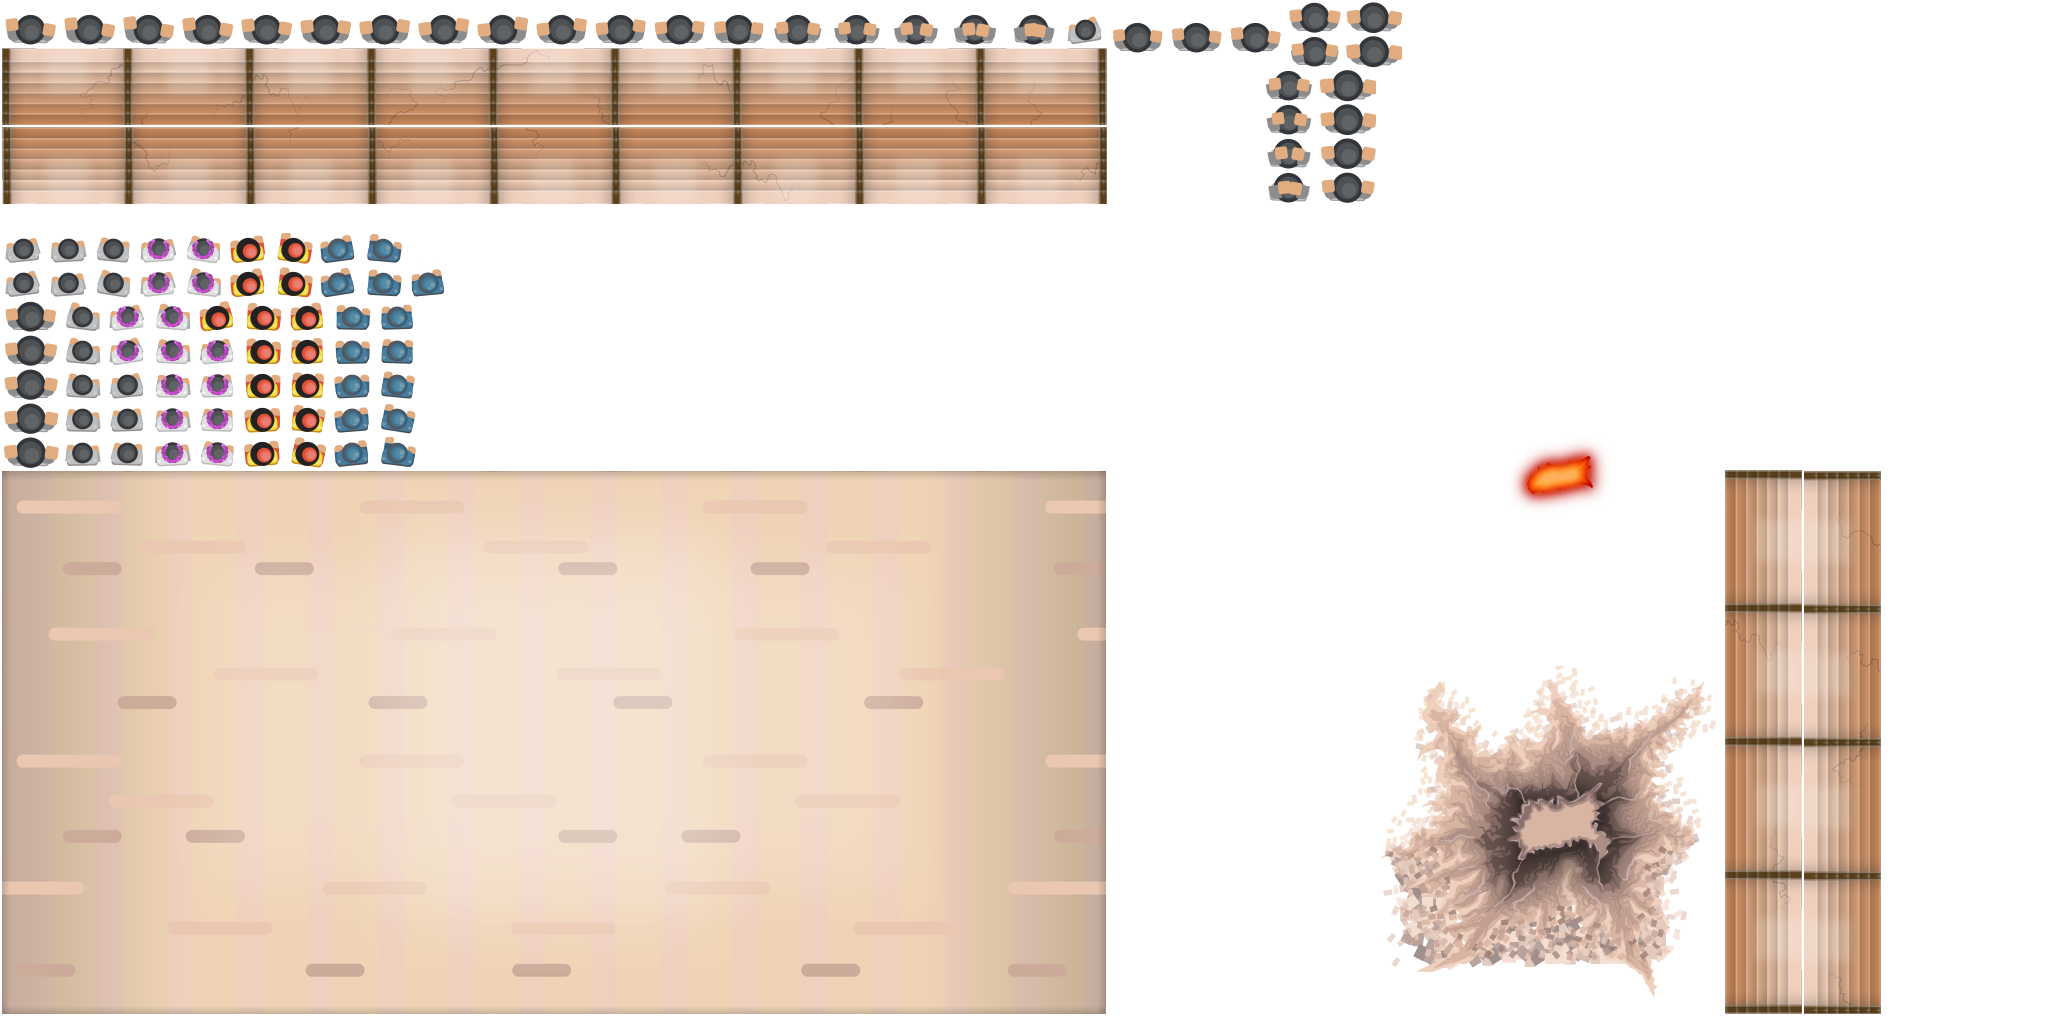
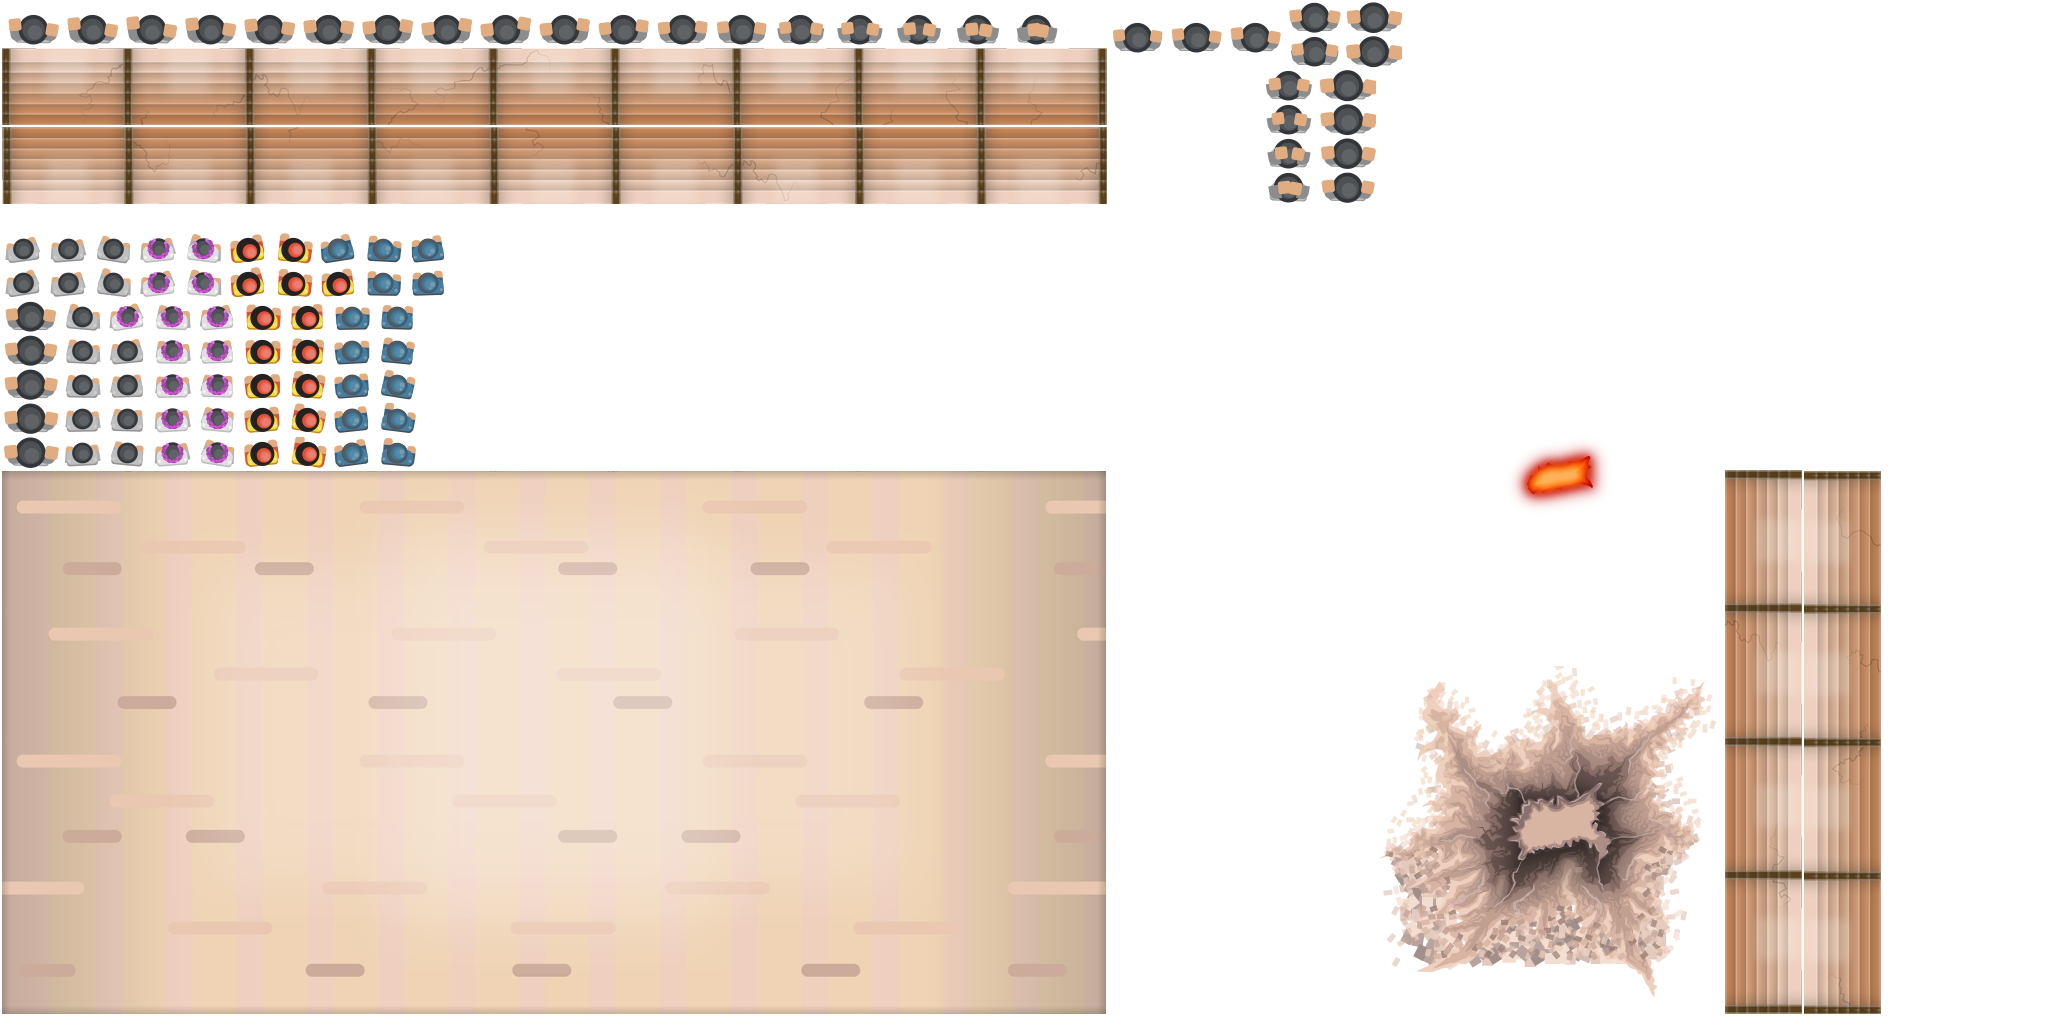
Score label

Changed region(s): [[0.0, 0.0, 0.5312, 0.0625], [0.0312, 0.2188, 0.2188, 0.4375]]

diff --git a/core/src/com/mygdx/game/model/GameWorld.java b/core/src/com/mygdx/game/model/GameWorld.java
@@ -9,6 +9,7 @@ import com.badlogic.gdx.InputMultiplexer;
 import com.badlogic.gdx.ai.GdxAI;
 import com.badlogic.gdx.controllers.Controllers;
 import com.badlogic.gdx.graphics.Color;
+import com.badlogic.gdx.graphics.g2d.BitmapFont;
 import com.badlogic.gdx.graphics.g2d.SpriteBatch;
 import com.badlogic.gdx.graphics.glutils.ShapeRenderer;
 import com.badlogic.gdx.math.MathUtils;
@@ -22,12 +23,14 @@ import com.badlogic.gdx.scenes.scene2d.ui.Label;
 import com.badlogic.gdx.scenes.scene2d.ui.Skin;
 import com.badlogic.gdx.scenes.scene2d.ui.Stack;
 import com.badlogic.gdx.scenes.scene2d.ui.Table;
+import com.badlogic.gdx.utils.Align;
 import com.badlogic.gdx.utils.Array;
 import com.mygdx.game.G;
 import com.mygdx.game.controls.*;
 import com.mygdx.game.entities.Arena;
 import com.mygdx.game.entities.*;
 import com.mygdx.game.utils.Constants;
+import com.mygdx.game.view.ScoreDisplay;
 
 public class GameWorld implements ContactListener {
 
@@ -38,8 +41,8 @@ public class GameWorld implements ContactListener {
     private GodsWillManager godManager;
     private TweenManager tweenManager;
     private WaveManager waveManager;
-    private Label team1ScoreLabel;
-    private Label team2ScoreLabel;
+
+    private ScoreDisplay scoreDisplay;
 
     // Keep game state
     private Array<Player> players;
@@ -99,19 +102,16 @@ public class GameWorld implements ContactListener {
         Stack root = new Stack();
         root.setFillParent(true);
         stage.addActor(root);
+
         Table scores = new Table();
-//        scores.debug();
         scores.setFillParent(true);
         root.addActor(scores);
-        team1ScoreLabel = new Label("Team 1 : 0", skin);
-        team1ScoreLabel.setColor(Color.BLUE);
-        team2ScoreLabel = new Label("Team 2 : 0", skin);
-        team2ScoreLabel.setColor(Color.RED);
-        scores.add(team1ScoreLabel).pad(20);
-        scores.row();
-        scores.add().expand().fill();
-        scores.row();
-        scores.add(team2ScoreLabel).pad(20);
+        scores.align(Align.top);
+
+
+        scoreDisplay = new ScoreDisplay();
+        scores.add(scoreDisplay);
+
 
         InputMultiplexer inputMultiplexer = new InputMultiplexer();
         if (Gdx.app.getType() == Application.ApplicationType.Android) {
@@ -159,12 +159,11 @@ public class GameWorld implements ContactListener {
     public void teamScored (int team) {
         if (team == TEAM_1) {
             team1Score++;
-            team1ScoreLabel.setText("Team 1 : " + team1Score);
         } else if (team == TEAM_2) {
             team2Score++;
-            team1ScoreLabel.setText("Team 2 : " + team2Score);
         }
 
+        scoreDisplay.updateScore(this);
         waveManager.makeWave();
 
         Gdx.app.log("", "Team "+team+" scored!");
@@ -177,8 +176,8 @@ public class GameWorld implements ContactListener {
         createArena(ARENA_X, ARENA_Y, ARENA_WIDTH, ARENA_HEIGHT);
 
         // Flames!
-        Flame flame = new Flame(2.5F, G.VP_HEIGHT / 2, 1, this, Color.ORANGE, TEAM_2);
-        entityManager.addEntity(flame);
+        Flame flame1 = new Flame(2.5F, G.VP_HEIGHT / 2, 1, this, Color.ORANGE, TEAM_2);
+        entityManager.addEntity(flame1);
 
         Flame flame2 = new Flame(G.VP_WIDTH - 2.5f, G.VP_HEIGHT / 2, 1, this, Color.ORANGE, TEAM_1);
         entityManager.addEntity(flame2);
@@ -323,5 +322,13 @@ public class GameWorld implements ContactListener {
 
     public void setRayHandler (RayHandler rayHandler) {
         this.rayHandler = rayHandler;
+    }
+
+    public int getTeam2Score() {
+        return team2Score;
+    }
+
+    public int getTeam1Score() {
+        return team1Score;
     }
 }

diff --git a/core/src/com/mygdx/game/view/ScoreDisplay.java b/core/src/com/mygdx/game/view/ScoreDisplay.java
@@ -1,0 +1,53 @@
+package com.mygdx.game.view;
+
+import com.badlogic.gdx.graphics.Color;
+import com.badlogic.gdx.graphics.g2d.BitmapFont;
+import com.badlogic.gdx.graphics.g2d.SpriteBatch;
+import com.badlogic.gdx.scenes.scene2d.Group;
+import com.badlogic.gdx.scenes.scene2d.ui.*;
+import com.badlogic.gdx.utils.Align;
+import com.mygdx.game.G;
+import com.mygdx.game.model.GameWorld;
+
+/**
+ * @author Lukasz Zmudziak, @lukz_dev on 2016-01-31.
+ */
+public class ScoreDisplay extends Table {
+
+    private Label scoreLabel;
+
+    private Image team1Color;
+    private Image team2Color;
+
+    public ScoreDisplay() {
+        Label.LabelStyle style = new Label.LabelStyle();
+        style.font = G.assets.get(G.A.FONT_UNIVERSIDAD, BitmapFont.class);
+
+        scoreLabel = new Label("00:00", style);
+        scoreLabel.setAlignment(Align.center);
+
+        team1Color = new Image(G.assets.getAtlas(G.A.ATLAS).findRegion(G.A.PIXEL));
+        team1Color.setAlign(Align.center);
+        team1Color.setColor(Color.valueOf("60a7fc"));
+
+        team2Color = new Image(G.assets.getAtlas(G.A.ATLAS).findRegion(G.A.PIXEL));
+        team2Color.setAlign(Align.center);
+        team2Color.setColor(Color.valueOf("fc3552"));
+
+        Stack stack = new Stack();
+
+        Table colorTable = new Table();
+        colorTable.add(team1Color).width(80).height(80);
+        colorTable.add(team2Color).width(80).height(80);
+
+        stack.add(colorTable);
+        stack.add(scoreLabel);
+
+        add(stack);
+    }
+
+    public void updateScore(GameWorld gameWorld) {
+        String score = String.format("%02d", gameWorld.getTeam1Score()) + ":" + String.format("%02d", gameWorld.getTeam2Score());
+        scoreLabel.setText(score);
+    }
+}

diff --git a/core/src/com/mygdx/game/G.java b/core/src/com/mygdx/game/G.java
@@ -33,7 +33,8 @@ public class G {
         public static final String VOLCANO_FIRE = "volcano-fire";
         public static final String SACRIFICE = "ofiara";
         public static final String RAY = "ray";
-        public static final String RAY_CIRCLE= "ray-circle";
+        public static final String RAY_CIRCLE = "ray-circle";
+        public static final String PIXEL = "pixel";
 
         public static final String SPECT_DANCE= "CHAR_C2";
         public static final String SPECT_CLAP= "CHAR_C3";
@@ -42,5 +43,8 @@ public class G {
         public static final String SOUND_CHEER1= "sfx/childCheer1.ogg";
         public static final String SOUND_CHEER2= "sfx/childCheer2.ogg";
         public static final String SOUND_CHEER3= "sfx/childCheer3.ogg";
+
+        // Fonts
+        public static final String FONT_UNIVERSIDAD = "universidad.fnt";
     }
 }

diff --git a/core/src/com/mygdx/game/Ggj16.java b/core/src/com/mygdx/game/Ggj16.java
@@ -4,6 +4,7 @@ import aurelienribon.tweenengine.Tween;
 import com.badlogic.gdx.Game;
 import com.badlogic.gdx.audio.Sound;
 import com.badlogic.gdx.graphics.FPSLogger;
+import com.badlogic.gdx.graphics.g2d.BitmapFont;
 import com.badlogic.gdx.graphics.g2d.Sprite;
 import com.badlogic.gdx.graphics.g2d.ParticleEffect;
 import com.badlogic.gdx.graphics.g2d.TextureAtlas;
@@ -34,6 +35,9 @@ public class Ggj16 extends Game {
 		assets.queueLoad("sfx/childCheer1.ogg", Sound.class);
 		assets.queueLoad("sfx/childCheer2.ogg", Sound.class);
 		assets.queueLoad("sfx/childCheer3.ogg", Sound.class);
+
+		// Font
+		assets.queueLoad("universidad.fnt", BitmapFont.class);
 
 		assets.queueLoad("pack/uiskin.json", Skin.class);
 		G.assets = assets;

diff --git a/core/src/com/mygdx/game/entities/Sacrifice.java b/core/src/com/mygdx/game/entities/Sacrifice.java
@@ -258,15 +258,14 @@ public class Sacrifice extends Entity implements PhysicsObject {
         if (psycho2 instanceof Flame) {
             if (owner != null)
                 owner.sacrifice = null;
-            Flame flame = (Flame)psycho2;
-            if (flame.team != team) {
-                world.teamScored(team);
-            } else {
-                world.teamScored(flame.team);
-            }
+
             owner = null;
 
+            // Score point
+            Flame flame = (Flame)psycho2;
+            world.teamScored(flame.team);
 
+            // Screenshake
             WorldRenderer.SHAKE_TIME += 0.3f;
 
             switch (MathUtils.random(2)) {
